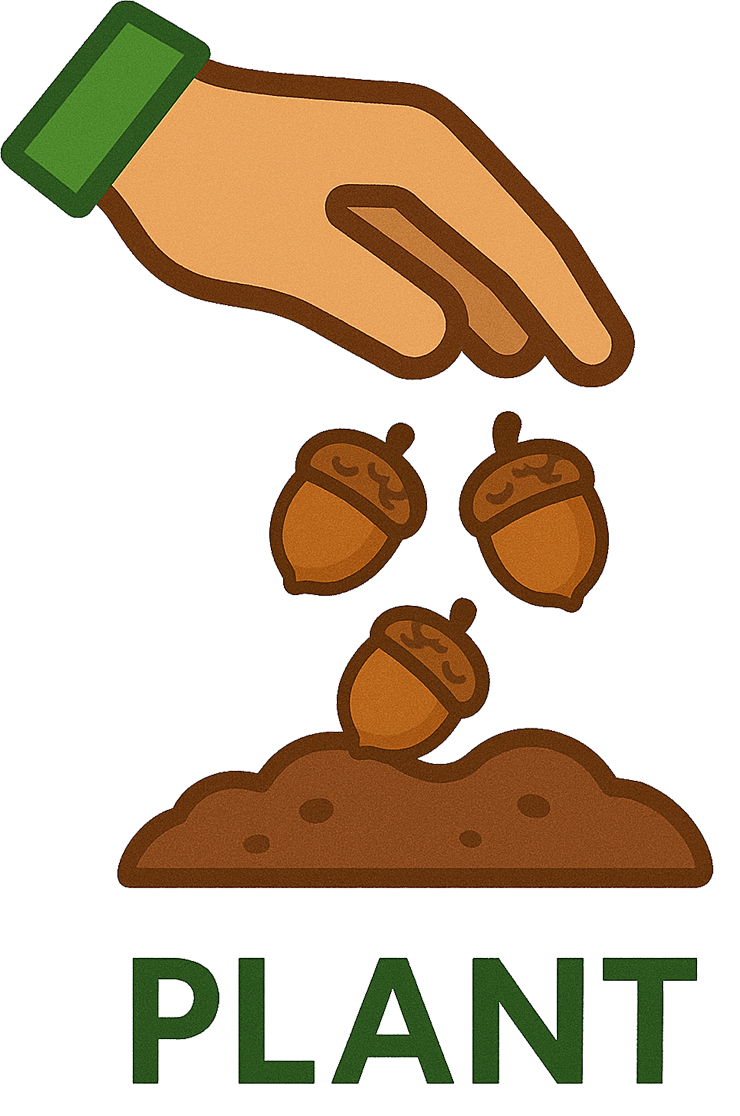
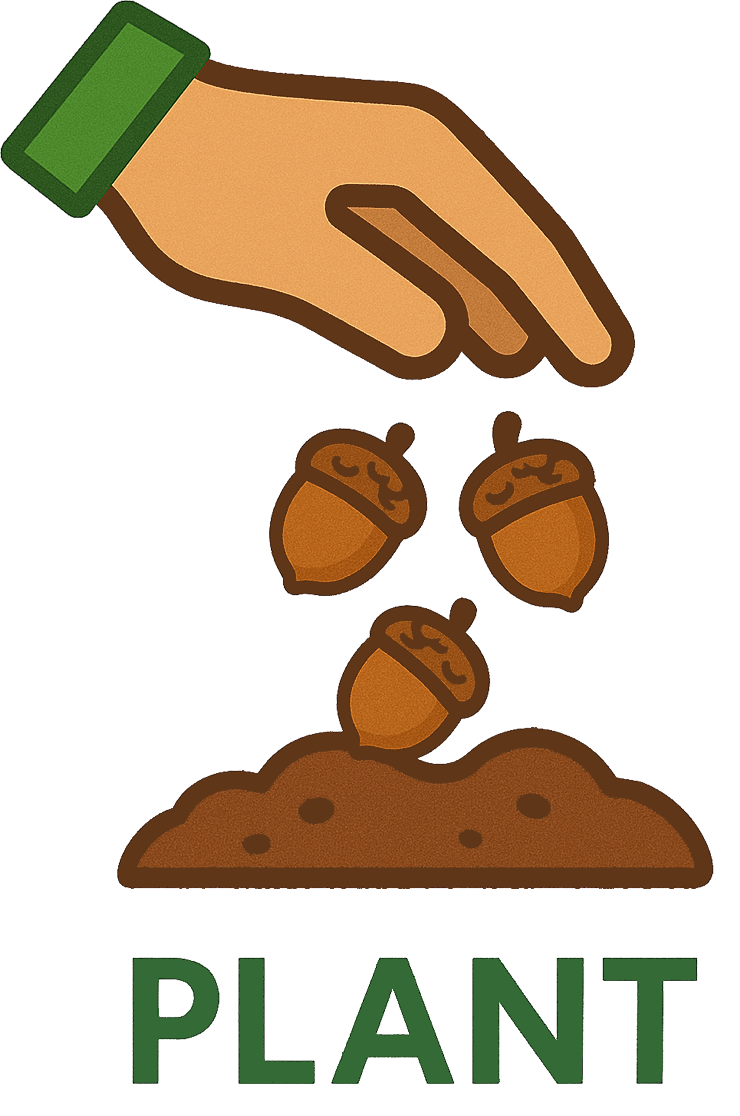
Updated images

Changed region(s): [[0.1554, 0.853, 0.9324, 0.9749]]

diff --git a/resources/syllabus.html b/resources/syllabus.html
@@ -103,7 +103,7 @@
           complete all the assignments for the semester.</p>
         
           <img src="../images/Sprout.png" alt="nourish the seeds until they sprout" width="300">
-          <h3>Noursish and cultivate the seed until they begin to sprout (Weeks 5-9)</h3>
+          <h3>Noursish and cultivate the seeds until they begin to sprout (Weeks 5-9)</h3>
           <p>Act on your acorn by nourishing it with the personal revelation that comes through trial, failure, 
             reflection, and improvement. You will plan, design, and create individually. You will practice implementing
              the information that was planted. The teacher will be close by for support in this critical stage. 
